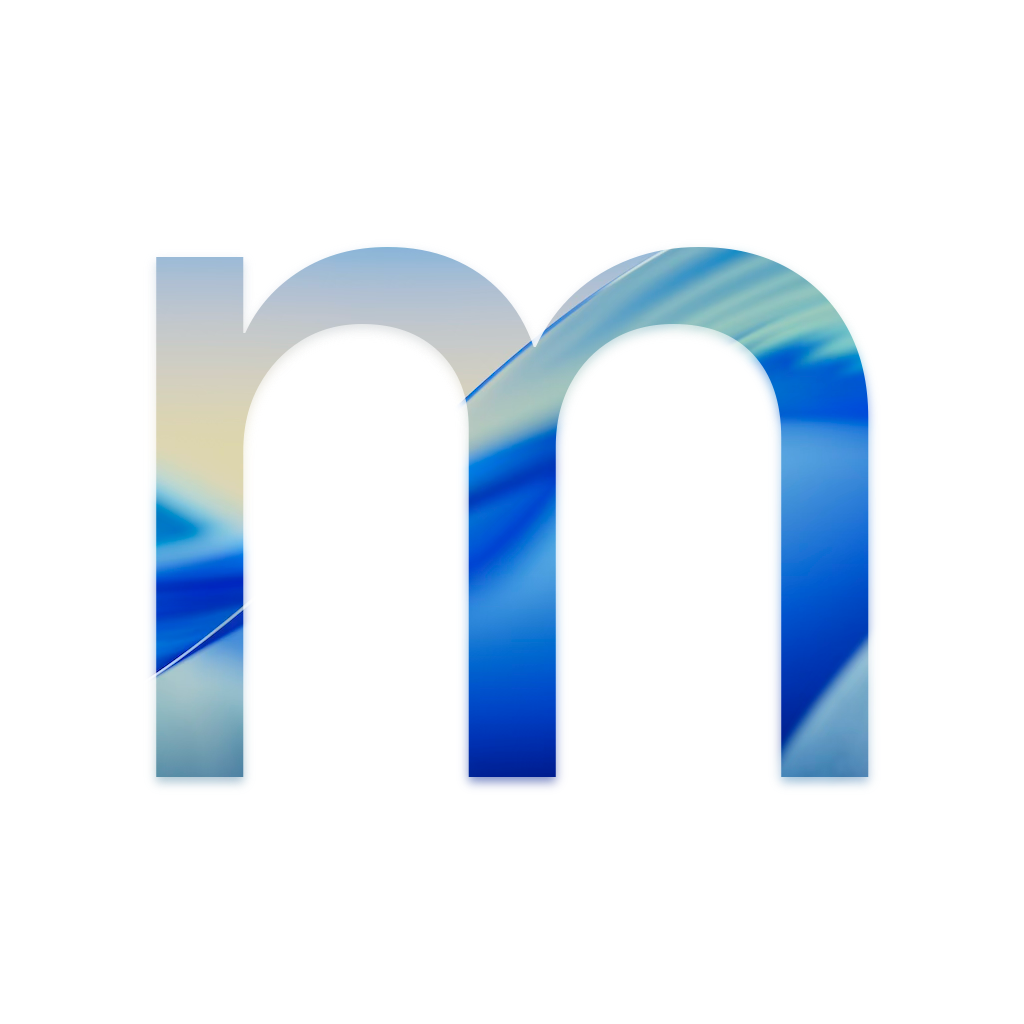
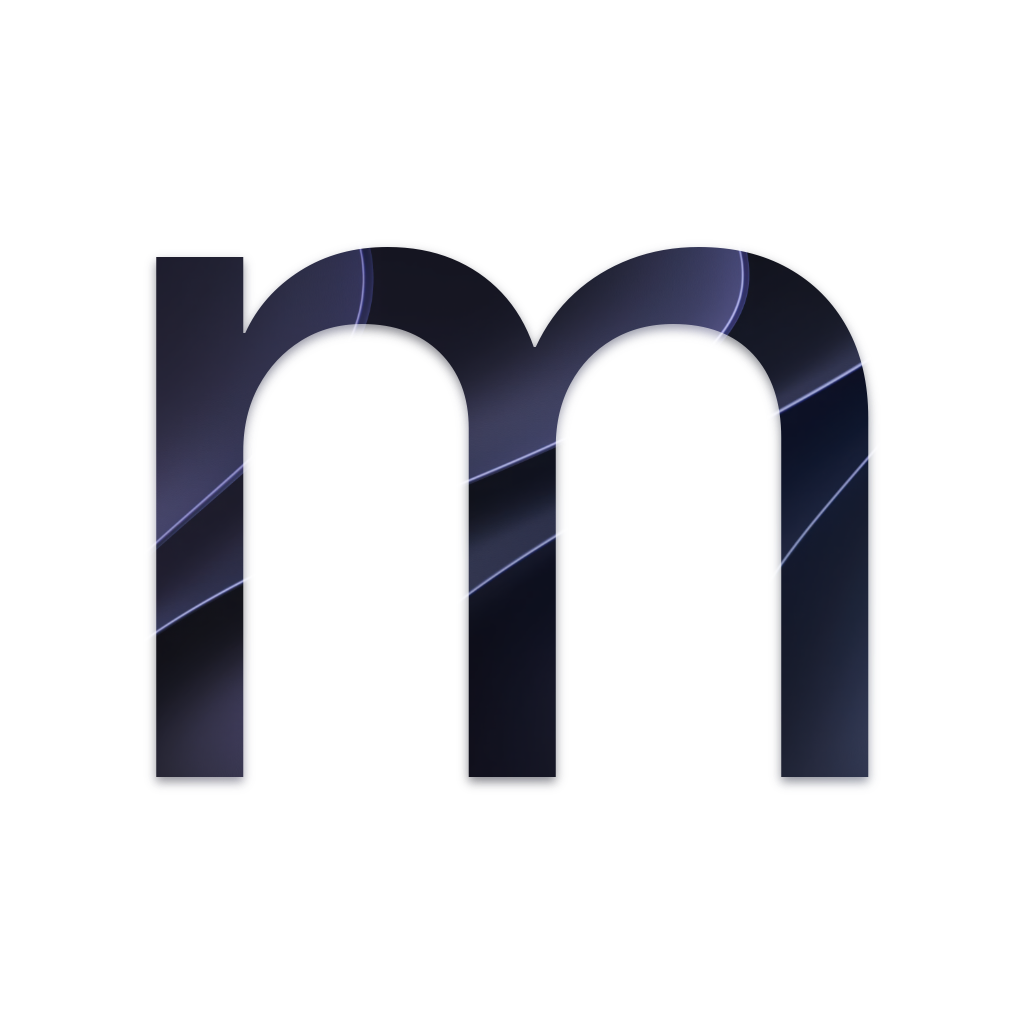
Add support for macOS Golden Gate (#230)

Pull request: Add support for macOS Golden Gate

Changed region(s): [[0.125, 0.2188, 0.875, 0.7812]]

diff --git a/Mist/Model/CatalogType.swift b/Mist/Model/CatalogType.swift
@@ -6,6 +6,7 @@
 //
 
 enum CatalogType: String, CaseIterable, Comparable, Decodable {
+    case goldenGate = "macOS Golden Gate"
     case tahoe = "macOS Tahoe"
     case sequoia = "macOS Sequoia"
     case sonoma = "macOS Sonoma"
@@ -23,18 +24,20 @@ enum CatalogType: String, CaseIterable, Comparable, Decodable {
 
     private var sortOrder: Int {
         switch self {
-        case .tahoe:
+        case .goldenGate:
             0
-        case .sequoia:
+        case .tahoe:
             1
-        case .sonoma:
+        case .sequoia:
             2
-        case .ventura:
+        case .sonoma:
             3
-        case .monterey:
+        case .ventura:
             4
-        case .bigSur:
+        case .monterey:
             5
+        case .bigSur:
+            6
         }
     }
 
@@ -45,6 +48,20 @@ enum CatalogType: String, CaseIterable, Comparable, Decodable {
     // swiftlint:disable:next cyclomatic_complexity function_body_length
     func url(for seedType: CatalogSeedType) -> String {
         switch self {
+        case .goldenGate:
+            switch seedType {
+            case .standard:
+                "https://swscan.apple.com/content/catalogs/others/index-27-26-15-14-13-12-10.16-10.15-10.14-10.13-10.12-10.11-10.10-10.9-mountainlion-lion-snowleopard-leopard.merged-1.sucatalog.gz"
+            case .customer:
+                // swiftlint:disable:next line_length
+                "https://swscan.apple.com/content/catalogs/others/index-27customerseed-27-26-15-14-13-12-10.16-10.15-10.14-10.13-10.12-10.11-10.10-10.9-mountainlion-lion-snowleopard-leopard.merged-1.sucatalog.gz"
+            case .developer:
+                // swiftlint:disable:next line_length
+                "https://swscan.apple.com/content/catalogs/others/index-27seed-27-26-15-14-13-12-10.16-10.15-10.14-10.13-10.12-10.11-10.10-10.9-mountainlion-lion-snowleopard-leopard.merged-1.sucatalog.gz"
+            case .public:
+                // swiftlint:disable:next line_length
+                "https://swscan.apple.com/content/catalogs/others/index-27beta-27-26-15-14-13-12-10.16-10.15-10.14-10.13-10.12-10.11-10.10-10.9-mountainlion-lion-snowleopard-leopard.merged-1.sucatalog.gz"
+            }
         case .tahoe:
             switch seedType {
             case .standard:

diff --git a/Mist/Helpers/TaskManager.swift b/Mist/Helpers/TaskManager.swift
@@ -239,7 +239,7 @@ class TaskManager: ObservableObject {
     ) throws -> [(section: MistTaskSection, tasks: [MistTask])] {
         let cacheDirectoryURL: URL = .init(fileURLWithPath: cacheDirectory).appendingPathComponent(installer.id)
         let temporaryDirectoryURL: URL = .init(fileURLWithPath: .temporaryDirectory)
-        let taskGroups: [(section: MistTaskSection, tasks: [MistTask])] = try [
+        return try [
             (
                 section: .download,
                 tasks: downloadTasks(for: installer, cacheDirectory: cacheDirectoryURL, retries: retries, delay: retryDelay)
@@ -262,8 +262,6 @@ class TaskManager: ObservableObject {
                 )
             )
         ]
-
-        return taskGroups
     }
 
     private static func downloadTasks(for installer: Installer, cacheDirectory cacheDirectoryURL: URL, retries: Int, delay retryDelay: Int) throws -> [MistTask] {
@@ -561,7 +559,7 @@ class TaskManager: ObservableObject {
     private static func bootableInstallerTasks(for installer: Installer, volume: InstallerVolume) -> [MistTask] {
         let createInstallMediaURL: URL = installer.temporaryInstallerURL.appendingPathComponent("Contents/Resources/createinstallmedia")
         let mountPointURL: URL = .init(fileURLWithPath: volume.path)
-        let tasks: [MistTask] = [
+        return [
             MistTask(type: .create, description: "Bootable Installer") {
                 // Workaround to make macOS Sierra 10.12 createinstallmedia work
                 if installer.version.hasPrefix("10.12") {
@@ -574,8 +572,6 @@ class TaskManager: ObservableObject {
                 try await InstallMediaCreator.create(createInstallMediaURL, mountPoint: mountPointURL, sierraOrOlder: installer.sierraOrOlder)
             }
         ]
-
-        return tasks
     }
 
     private static func cleanupTasks(mountPoint mountPointURL: URL, temporaryDirectory temporaryDirectoryURL: URL, cacheDownloads: Bool, cacheDirectory cacheDirectoryURL: URL) -> [MistTask] {

diff --git a/Mist/Extensions/Dictionary+Extension.swift b/Mist/Extensions/Dictionary+Extension.swift
@@ -33,7 +33,7 @@ extension Dictionary where Key == String {
         let signedString: String = "\(signed ? "YES" : "NO")"
         let betaString: String = "\(beta ? "YES" : "NO")"
 
-        let string: String = [
+        return [
             nameString,
             versionString,
             buildString,
@@ -44,7 +44,6 @@ extension Dictionary where Key == String {
             signedString,
             betaString
         ].joined(separator: ",") + "\n"
-        return string
     }
 
     /// Provides an installer CSV string representation.
@@ -72,7 +71,7 @@ extension Dictionary where Key == String {
         let compatibleString: String = "\(compatible ? "YES" : "NO")"
         let betaString: String = "\(beta ? "YES" : "NO")"
 
-        let string: String = [
+        return [
             identifierString,
             nameString,
             versionString,
@@ -82,6 +81,5 @@ extension Dictionary where Key == String {
             compatibleString,
             betaString
         ].joined(separator: ",") + "\n"
-        return string
     }
 }

diff --git a/Mist/Model/Installer.swift b/Mist/Model/Installer.swift
@@ -654,7 +654,9 @@ struct Installer: Decodable, Hashable, Identifiable {
     var name: String {
         var name: String = ""
 
-        if version.range(of: "^26", options: .regularExpression) != nil {
+        if version.range(of: "^27", options: .regularExpression) != nil {
+            name = "macOS Golden Gate"
+        } else if version.range(of: "^26", options: .regularExpression) != nil {
             name = "macOS Tahoe"
         } else if version.range(of: "^15", options: .regularExpression) != nil {
             name = "macOS Sequoia"
@@ -783,7 +785,7 @@ struct Installer: Decodable, Hashable, Identifiable {
     }
 
     var bigSurOrNewer: Bool {
-        version.range(of: "^(1[1-5]|26)\\.", options: .regularExpression) != nil
+        version.range(of: "^(1[1-5]|2[6-7])\\.", options: .regularExpression) != nil
     }
 
     var beta: Bool {

diff --git a/Mist/Views/List/ListRowInstaller.swift b/Mist/Views/List/ListRowInstaller.swift
@@ -171,7 +171,7 @@ struct ListRowInstaller: View {
         openPanel.accessoryView = NSHostingView(rootView: InstallerExportView(installer: installer, exports: $exports))
         openPanel.isAccessoryViewDisclosed = true
 
-        Task {
+        _ = Task {
             let response: NSApplication.ModalResponse = openPanel.runModal()
 
             guard response == .OK else {
@@ -207,7 +207,7 @@ struct ListRowInstaller: View {
             return
         }
 
-        Task {
+        _ = Task {
             taskManager.taskGroups = try TaskManager.taskGroups(
                 for: installer,
                 cacheDownloads: cacheDownloads,
@@ -337,7 +337,7 @@ struct ListRowInstaller: View {
             Alert(
                 title: Text("Cache directory settings incorrect!"),
                 message: Text(cacheDirectoryMessage),
-                primaryButton: .default(Text("Repair...")) { Task { try await repairCacheDirectoryOwnershipAndPermissions() } },
+                primaryButton: .default(Text("Repair...")) { _ = Task { try await repairCacheDirectoryOwnershipAndPermissions() } },
                 secondaryButton: .default(Text("Cancel"))
             )
         case .error:

diff --git a/Mist/Model/Firmware.swift b/Mist/Model/Firmware.swift
@@ -51,7 +51,9 @@ struct Firmware: Decodable, Hashable, Identifiable {
     var name: String {
         var name: String = ""
 
-        if version.range(of: "^26", options: .regularExpression) != nil {
+        if version.range(of: "^27", options: .regularExpression) != nil {
+            name = "macOS Golden Gate"
+        } else if version.range(of: "^26", options: .regularExpression) != nil {
             name = "macOS Tahoe"
         } else if version.range(of: "^15", options: .regularExpression) != nil {
             name = "macOS Sequoia"

diff --git a/Mist/Model/AppIcon.swift b/Mist/Model/AppIcon.swift
@@ -13,8 +13,9 @@ enum AppIcon: String, CaseIterable, Identifiable {
     case sonoma = "macOS Sonoma"
     case sequoia = "macOS Sequoia"
     case tahoe = "macOS Tahoe"
+    case goldenGate = "macOS Golden Gate"
 
-    static let `default`: AppIcon = .tahoe
+    static let `default`: AppIcon = .goldenGate
 
     var id: String {
         rawValue

diff --git a/Mist/Extensions/AuthorizationError+Extension.swift b/Mist/Extensions/AuthorizationError+Extension.swift
@@ -7,7 +7,7 @@
 
 import Authorized
 
-extension AuthorizationError: Equatable {
+extension AuthorizationError: @retroactive Equatable {
     public static func == (lhs: AuthorizationError, rhs: AuthorizationError) -> Bool {
         lhs.localizedDescription == rhs.localizedDescription
     }

diff --git a/Mist/Extensions/Scene+Extension.swift b/Mist/Extensions/Scene+Extension.swift
@@ -14,7 +14,7 @@ extension Scene {
     func fixedWindow() -> some Scene {
         if #available(macOS 13.0, *) {
             // swiftformat:disable:next redundantReturn
-            return self.windowResizability(.contentSize)
+            return windowResizability(.contentSize)
         } else {
             // swiftformat:disable:next redundantReturn
             return self

diff --git a/Mist/Model/Catalog.swift b/Mist/Model/Catalog.swift
@@ -17,7 +17,7 @@ struct Catalog: Identifiable, Decodable, Equatable {
     }
 
     static var example: Catalog {
-        Catalog(type: .tahoe, standard: true, customerSeed: false, developerSeed: false, publicSeed: false)
+        Catalog(type: .goldenGate, standard: true, customerSeed: false, developerSeed: false, publicSeed: false)
     }
 
     var id: UUID = .init()

diff --git a/Mist/Views/Activity/ActivityView.swift b/Mist/Views/Activity/ActivityView.swift
@@ -227,7 +227,7 @@ struct ActivityView: View {
         DownloadManager.shared.cancelTask()
         taskManager.cancelTask()
         ShellExecutor.shared.terminate()
-        Task { try await ProcessKiller.kill() }
+        _ = Task { try await ProcessKiller.kill() }
         presentationMode.wrappedValue.dismiss()
     }
 }

diff --git a/Mist/Views/List/ListRowFirmware.swift b/Mist/Views/List/ListRowFirmware.swift
@@ -133,7 +133,7 @@ struct ListRowFirmware: View {
         savePanel.canSelectHiddenExtension = true
         savePanel.isExtensionHidden = false
 
-        Task {
+        _ = Task {
             let response: NSApplication.ModalResponse = savePanel.runModal()
 
             guard response == .OK else {